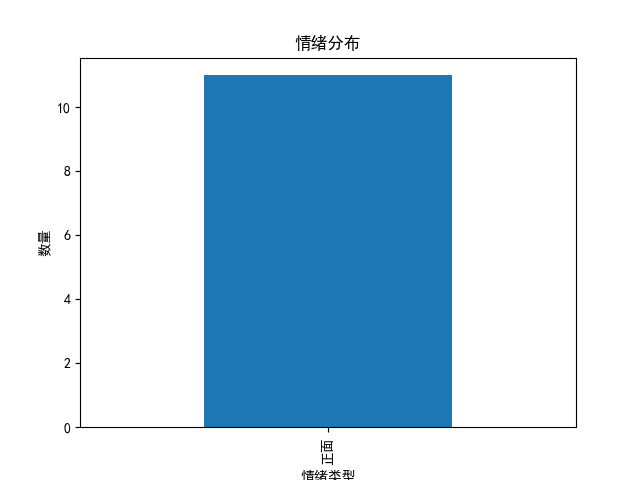
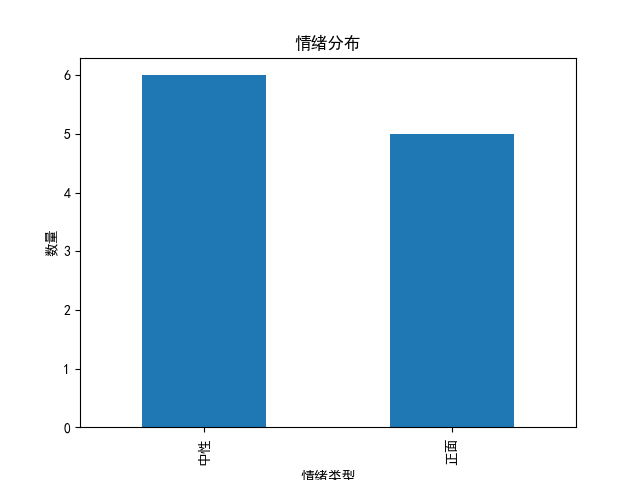
Add files via upload

diff --git a/process.py b/process.py
@@ -342,6 +342,7 @@ def validate_result(data):
     return data
 
 def process(news):
+    # print("start!!!!!")
     news_cn = translate(news)
     # print("news_cn =", news_cn)
     news_basic = extract_basic(news_cn)

diff --git a/analysis_report.md b/analysis_report.md
@@ -8,30 +8,30 @@ AI行业分析报告
 
 - 总新闻数：11
 - 高重要性事件：3（27.27%）
-- 头部公司占比：72.73%
+- 头部公司占比：63.64%
 
 ## 二、今日热点
 
-- 520，遇见国产「新模王」Qwen3.7-Max！（评分:5，类别:技术）
 - I/O大会开完，谷歌连搜索框都变智能体了（评分:5，类别:产品）
-- 谷歌在IO 2026大会上更新Gemini应用以挑战ChatGPT和Claude（评分:5，类别:产品）
-- 2026中国AIGC最值得关注的企业&产品图鉴来了！谁在造浪，谁在落地？（评分:3，类别:行业）
-- 高潮从第几秒开始？GaMMA 让多模态大模型真正「听懂」音乐时间线（评分:3，类别:技术）
+- 高潮从第几秒开始？GaMMA 让多模态大模型真正「听懂」音乐时间线（评分:5，类别:技术）
+- 520，遇见国产「新模王」Qwen3.7-Max！（评分:4，类别:技术）
+- 谷歌在I/O 2026上更新Gemini应用，与ChatGPT和Claude竞争（评分:3，类别:产品）
+- 2026中国AIGC最值得关注的企业&产品图鉴来了！谁在造浪，谁在落地？（评分:2，类别:行业）
 
 ## 三、分类分析
 
 - 产品：5条，代表事件：I/O大会开完，谷歌连搜索框都变智能体了
-- 技术：3条，代表事件：520，遇见国产「新模王」Qwen3.7-Max！
-- 投资：1条，代表事件：忘掉信息流：Status AI 融资 1700 万美元，将社交媒体变成互动娱乐
+- 技术：3条，代表事件：高潮从第几秒开始？GaMMA 让多模态大模型真正「听懂」音乐时间线
+- 投资：1条，代表事件：告别信息流：Status AI 融资1700万美元，将社交媒体转变为互动娱乐
 - 行业：2条，代表事件：2026中国AIGC最值得关注的企业&产品图鉴来了！谁在造浪，谁在落地？
 
 ## 四、技术趋势
 
-- 多模态（4次）
-- LLM（3次）
-- 生成式AI（2次）
-- 智能体（2次）
+- 多模态（6次）
+- LLM（5次）
+- 智能体（3次）
 - 多智能体协同（1次）
+- 隐性知识捕获（1次）
 
 ## 五、数据可视化
 